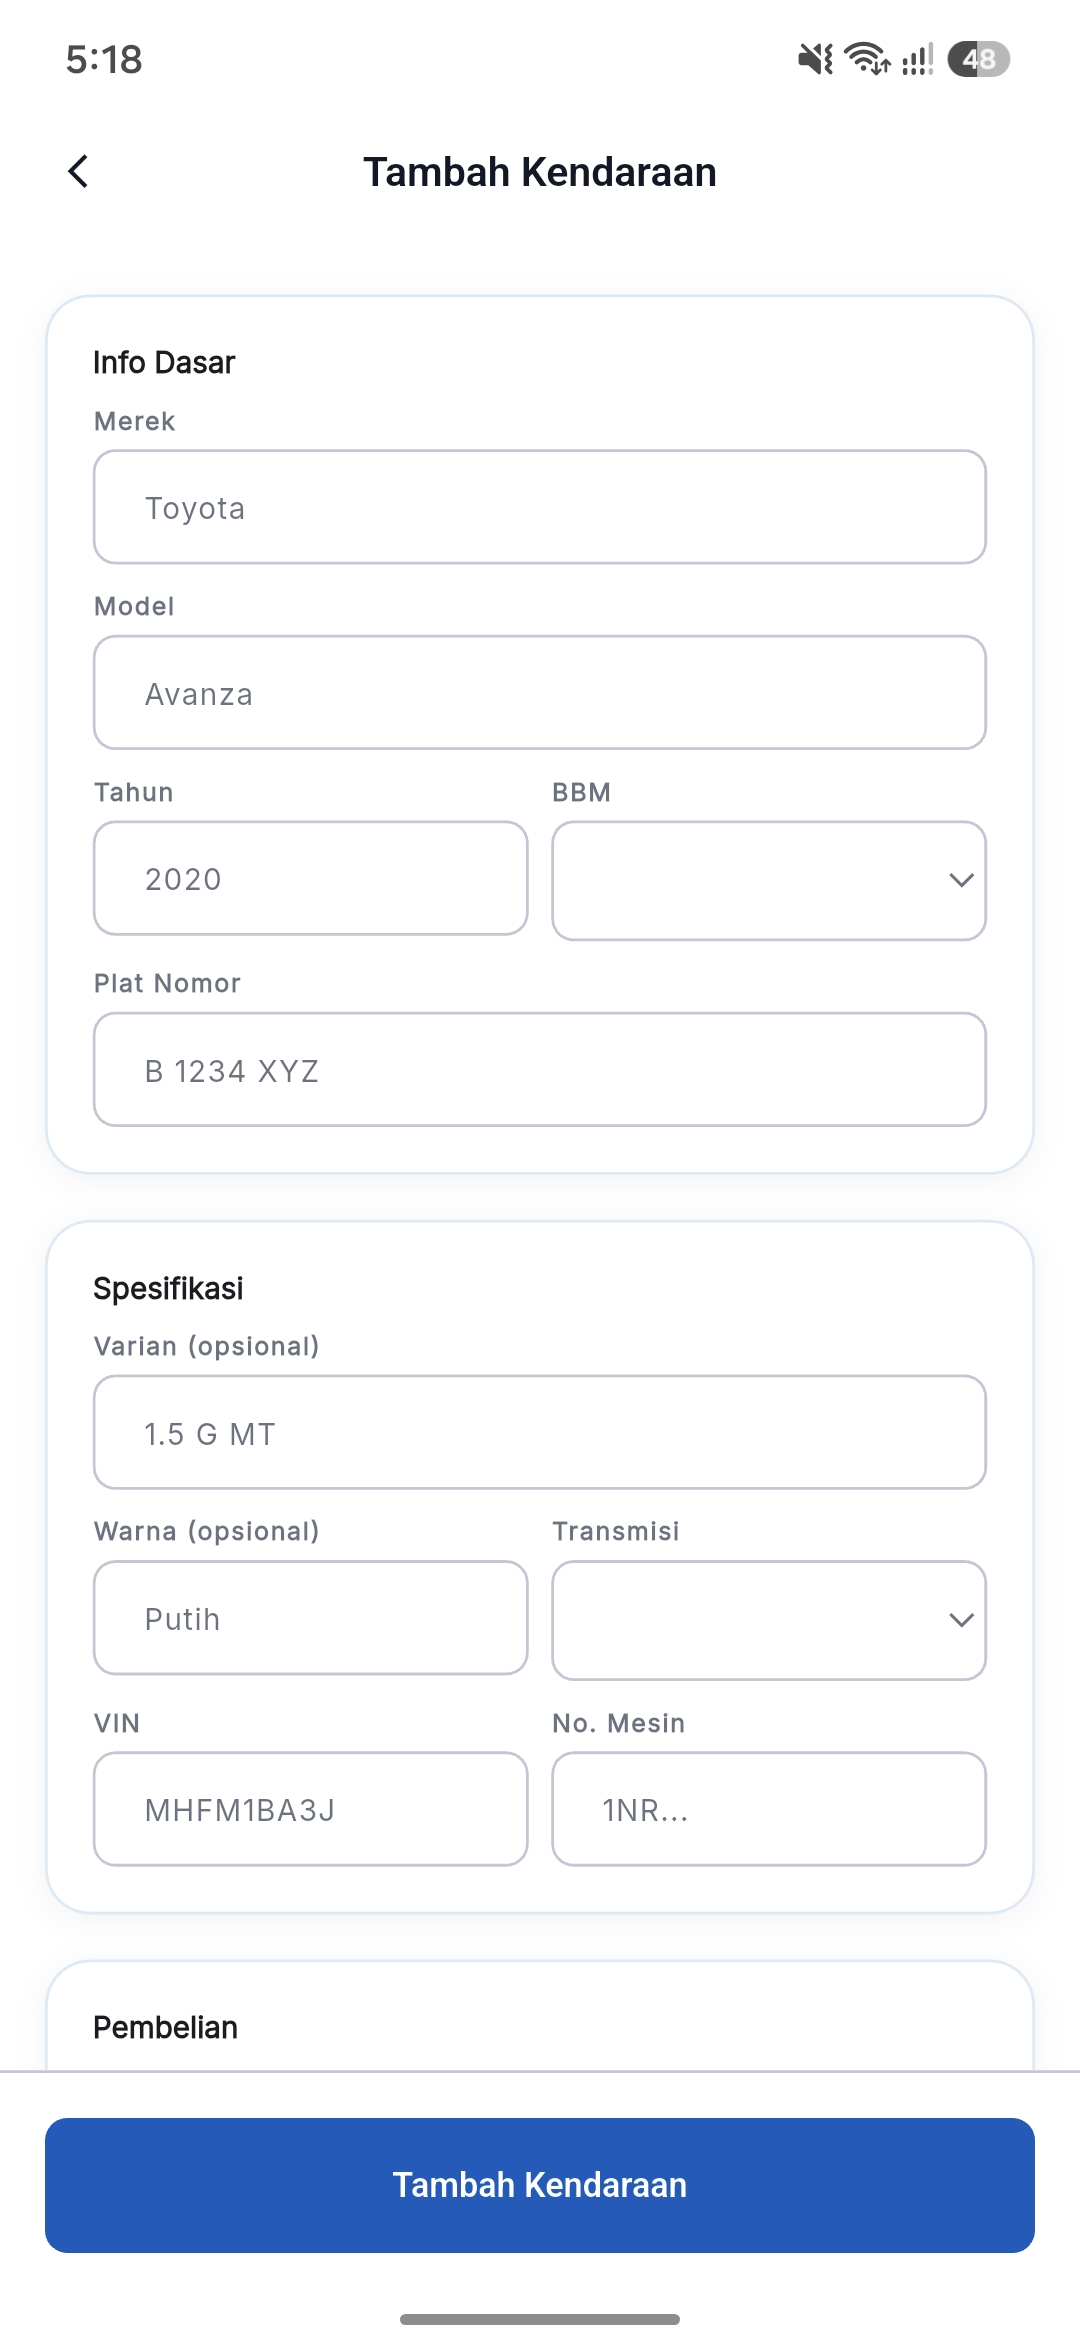
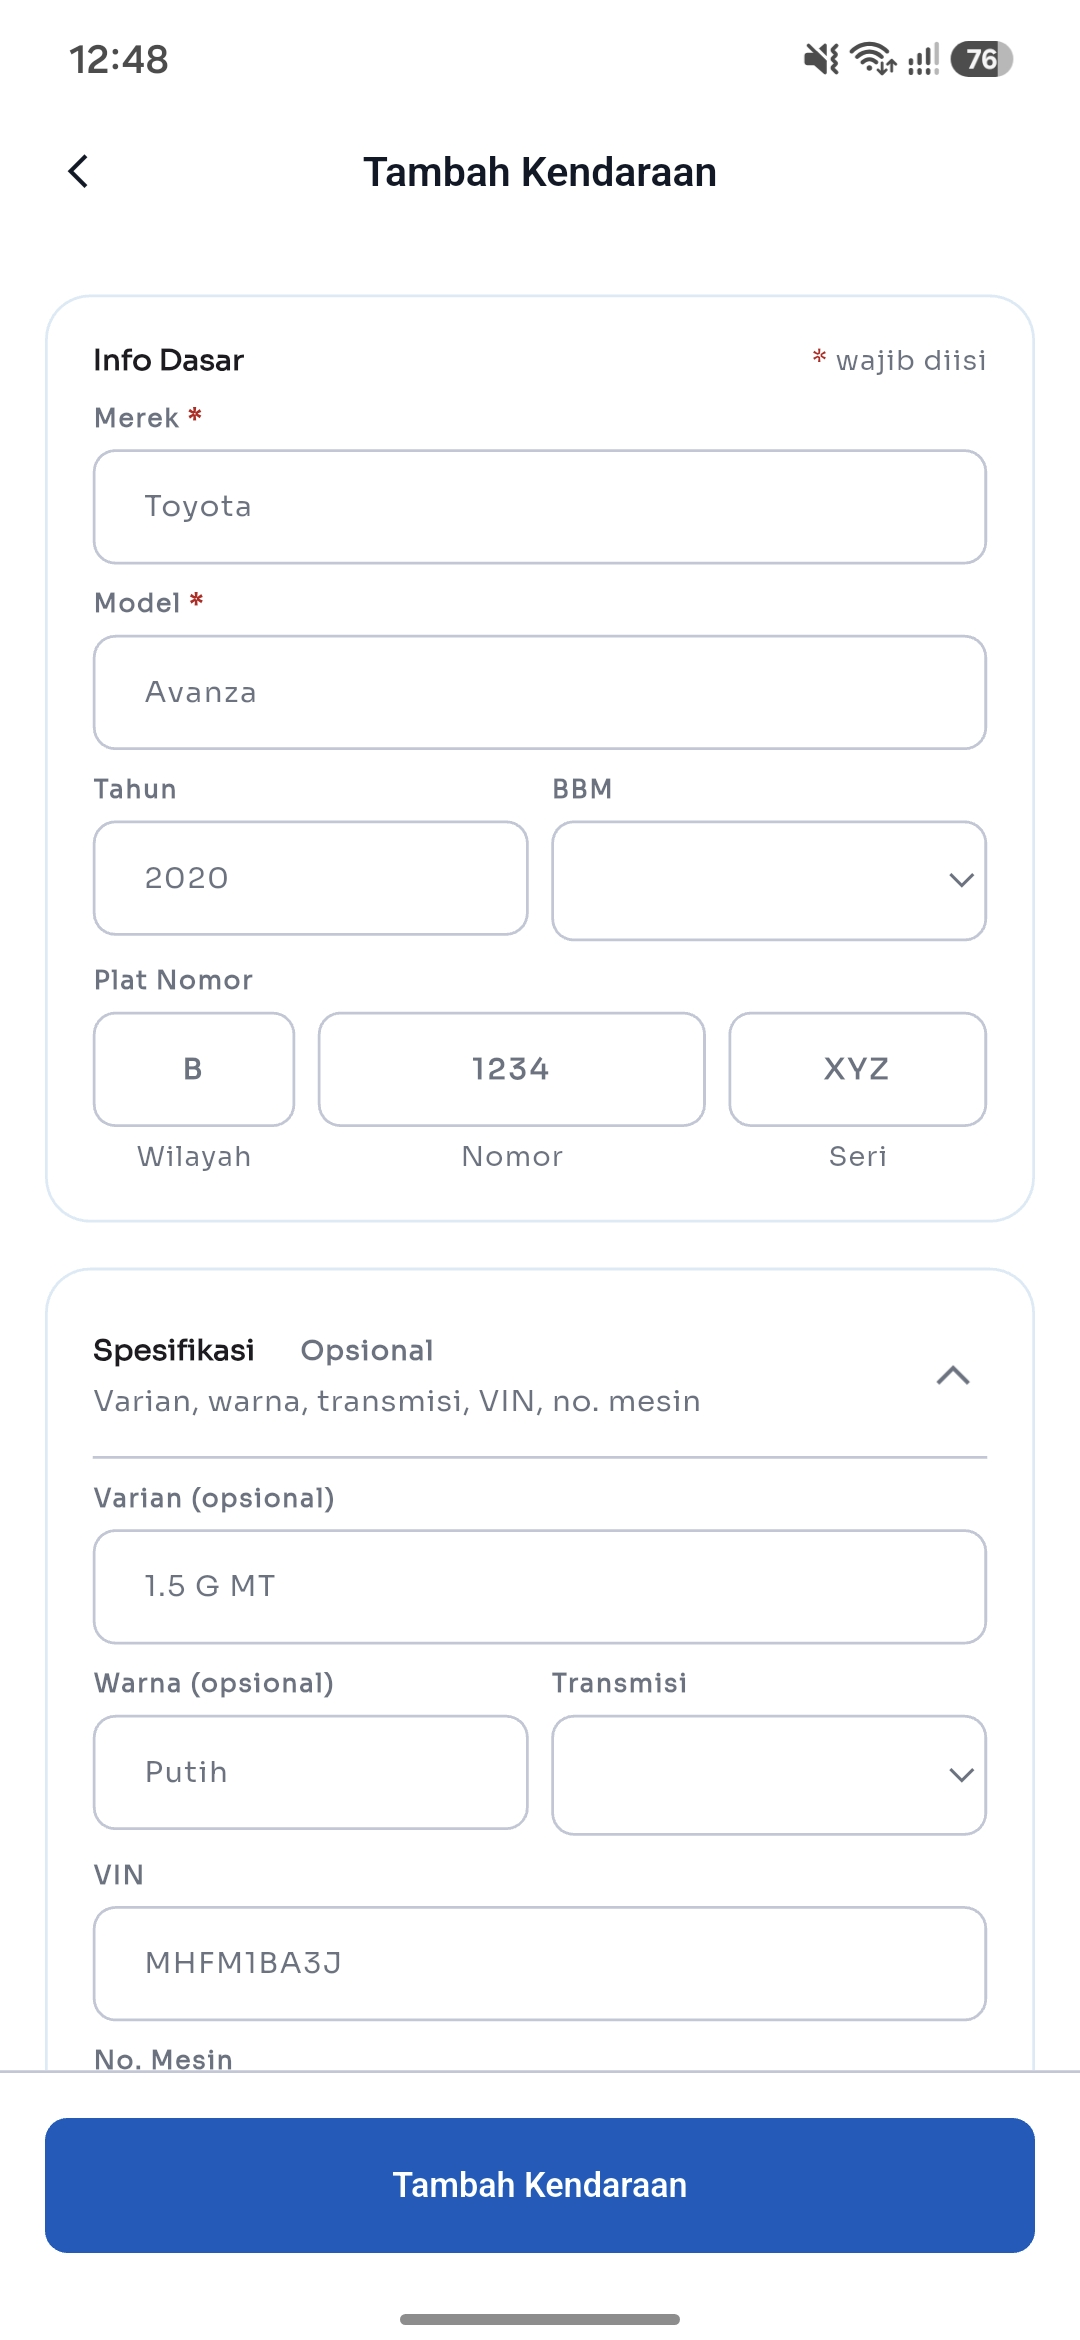
update landing for fuel prediction, fuel types, and the new vehicle form
- "Odometer dan BBM": logging from total paid and price per liter, managed
  fuel types, and the next-refill estimate after 3 fills
- "Insight yang jujur" and the gallery caption mention the refill estimate
- insights alt text matches the current screenshot
- new Tambah Kendaraan screenshot (3-part plate, optional specs) with its
  alt text, and "Cara mulai" only asks for brand and model

diff --git a/index.html b/index.html
@@ -183,10 +183,10 @@
         <div>
           <div class="feat-icon"><span class="ms" aria-hidden="true">monitoring</span></div>
           <h3>Insight yang jujur</h3>
-          <p>Jarak tempuh, konsumsi km/L, dan total biaya per periode, dibandingkan dengan periode sebelumnya. Kamu tahu kapan konsumsi memburuk, bukan cuma merasa irit.</p>
+          <p>Jarak tempuh, konsumsi km/L, dan total biaya per periode, dibandingkan dengan periode sebelumnya. Kamu tahu kapan konsumsi memburuk, bukan cuma merasa irit. Ditambah perkiraan kapan harus isi BBM berikutnya.</p>
         </div>
         <div class="feat-shot">
-          <img src="images/insights.jpg" alt="Tab Insights CarBuddy: jarak tempuh, efisiensi BBM 48,3 km/L, total pengeluaran, dan grafik tren efisiensi" width="1080" height="2340" loading="lazy" decoding="async">
+          <img src="images/insights.jpg" alt="Tab Insights CarBuddy: jarak tempuh, efisiensi BBM 35,0 km/L, total pengeluaran, prediksi isi BBM berikutnya sekitar 7 Okt, dan ringkasan efisiensi serta harga BBM" width="1080" height="2340" loading="lazy" decoding="async">
         </div>
       </div>
 
@@ -195,7 +195,7 @@
           <div class="feat-icon"><span class="ms" aria-hidden="true">speed</span></div>
           <div>
             <h3>Odometer dan BBM</h3>
-            <p>Catat km dan tiap isi bensin. Konsumsi dihitung dari data asli, bukan perkiraan.</p>
+            <p>Catat tiap isi bensin cukup dari total bayar dan harga per liter, jenis BBM bisa kamu atur sendiri. Setelah 3 kali isi, aplikasi memperkirakan kapan kamu perlu isi lagi.</p>
           </div>
         </div>
         <div class="feat-row reveal">
@@ -251,7 +251,7 @@
         <div class="gal-static">
           <figure><img src="images/home.jpg" alt="Beranda CarBuddy" width="1080" height="2340"><figcaption>Beranda: status kendaraan, pengeluaran bulan ini, dan kewajiban terdekat.</figcaption></figure>
           <figure><img src="images/timeline.jpg" alt="Timeline CarBuddy" width="1080" height="2340" loading="lazy"><figcaption>Timeline: semua catatan terurut, bisa disaring per kategori.</figcaption></figure>
-          <figure><img src="images/insights.jpg" alt="Insights CarBuddy" width="1080" height="2340" loading="lazy"><figcaption>Insight: jarak, konsumsi, dan pengeluaran per kendaraan.</figcaption></figure>
+          <figure><img src="images/insights.jpg" alt="Insights CarBuddy" width="1080" height="2340" loading="lazy"><figcaption>Insight: jarak, konsumsi, pengeluaran, dan prediksi isi BBM per kendaraan.</figcaption></figure>
           <figure><img src="images/reminders.jpg" alt="Reminders CarBuddy" width="1080" height="2340" loading="lazy"><figcaption>Pengingat dengan hitungan hari sebelum jatuh tempo.</figcaption></figure>
           <figure><img src="images/more.jpg" alt="Menu More CarBuddy" width="1080" height="2340" loading="lazy"><figcaption>Semua modul: kendaraan, perawatan, BBM, pajak, asuransi, ban, aki.</figcaption></figure>
           <figure><img src="images/maintenance.jpg" alt="Perawatan CarBuddy" width="1080" height="2340" loading="lazy"><figcaption>Perawatan: biaya, riwayat servis, dan jadwal berikutnya.</figcaption></figure>
@@ -275,7 +275,7 @@
           <div class="wiz-panels" aria-live="polite">
             <div class="wiz-panel is-on">
               <h3>Tambahkan kendaraan</h3>
-              <p>Isi nama, plat, dan odometer awal. Tidak ada akun yang diminta, catatannya langsung tersimpan di HP.</p>
+              <p>Cukup isi merek dan model, lalu plat dan odometer awal kalau ada. Tidak ada akun yang diminta, catatannya langsung tersimpan di HP.</p>
             </div>
             <div class="wiz-panel">
               <h3>Catat detail servis</h3>
@@ -303,7 +303,7 @@
           <div class="wiz-shot is-on">
             <div class="phone phone-sm">
               <div class="phone-screen">
-                <img src="images/tambah-kendaraan.jpg" alt="Formulir Tambah Kendaraan di aplikasi CarBuddy: merek Toyota, model Avanza, tahun 2020, dan plat nomor B 1234 XYZ" width="1080" height="2340" decoding="async">
+                <img src="images/tambah-kendaraan.jpg" alt="Formulir Tambah Kendaraan di aplikasi CarBuddy: merek dan model wajib diisi, tahun, jenis BBM, plat nomor dalam tiga kotak B, 1234, XYZ, dan bagian Spesifikasi opsional" width="1080" height="2340" decoding="async">
                 <span class="punch" aria-hidden="true"></span>
               </div>
             </div>

diff --git a/app.js b/app.js
@@ -13,7 +13,7 @@ const SCREENSHOTS = [
   },
   {
     src: 'images/insights.jpg',
-    alt: 'Tab Insights dengan kartu jarak tempuh, efisiensi BBM 48,3 km/L, total pengeluaran, dan grafik tren',
+    alt: 'Tab Insights dengan kartu jarak tempuh, efisiensi BBM 35,0 km/L, total pengeluaran, dan prediksi isi BBM berikutnya',
     caption: 'Insight: jarak, konsumsi, dan pengeluaran per kendaraan, lengkap dengan trennya.'
   },
   {
